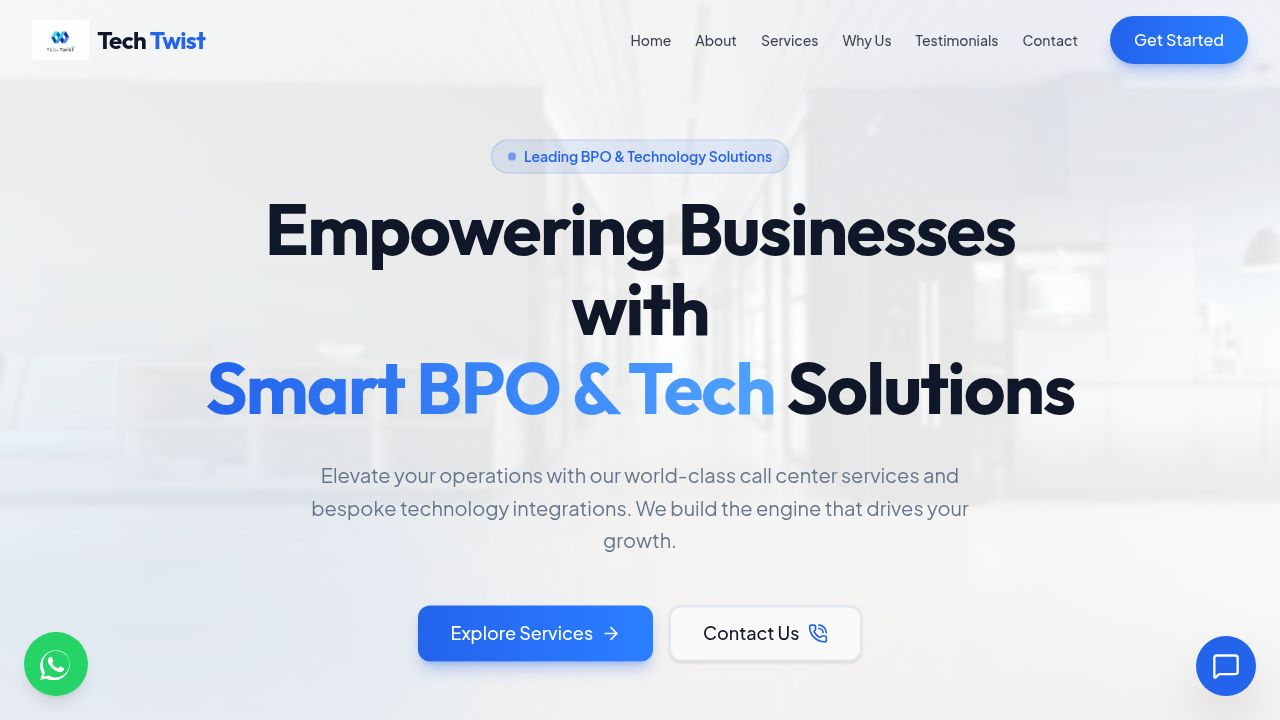
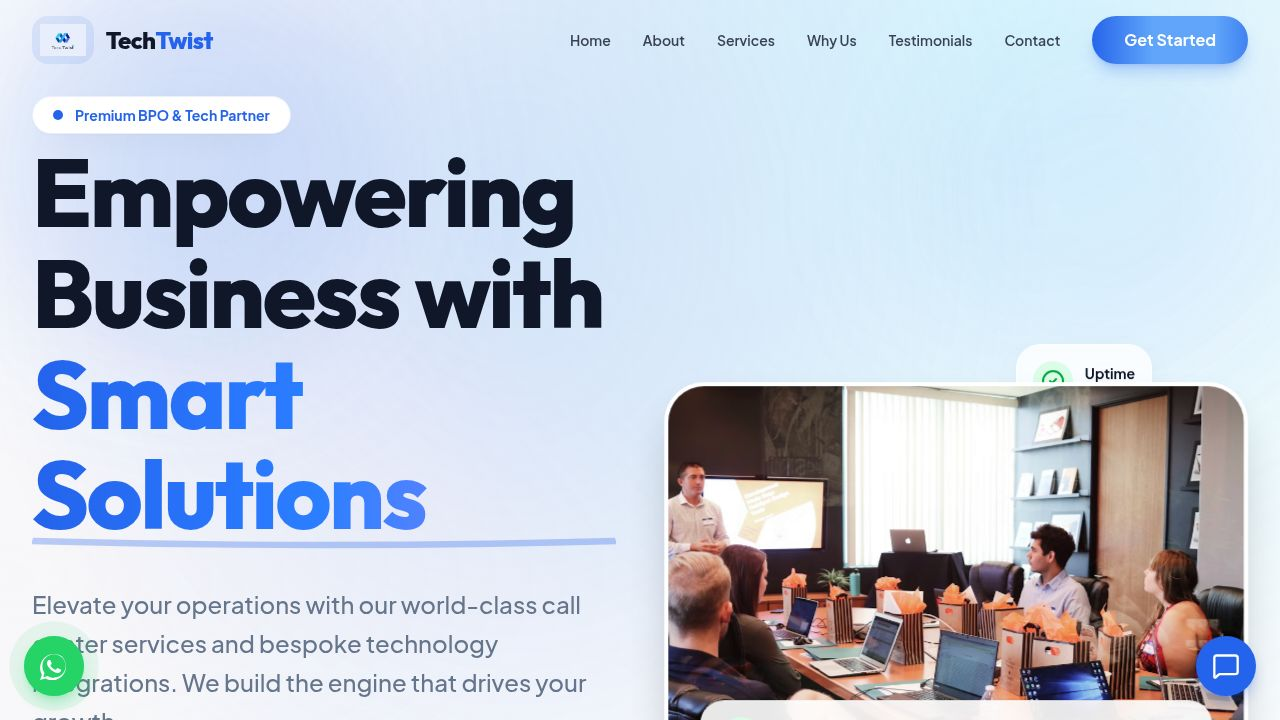
Add attractive and modern images to enhance the website's visual appeal
Integrate high-quality, royalty-free images from Unsplash across various sections, including Hero, About, Services, Testimonials, and Contact, to improve the website's aesthetic and professional presentation.

Replit-Commit-Author: Agent
Replit-Commit-Session-Id: a98e836a-7b45-4a6f-8c2e-8d22522812c9
Replit-Commit-Checkpoint-Type: full_checkpoint
Replit-Commit-Event-Id: 21f09a87-04d3-4b87-b2f1-b5860b8e7d07
Replit-Commit-Screenshot-Url: https://storage.googleapis.com/screenshot-production-us-central1/b10f4f53-28a6-49d7-90fb-6a129ad73a52/a98e836a-7b45-4a6f-8c2e-8d22522812c9/GNSqizr
Replit-Helium-Checkpoint-Created: true

diff --git a/artifacts/tech-twist/src/components/sections/WhyChooseUsSection.tsx b/artifacts/tech-twist/src/components/sections/WhyChooseUsSection.tsx
@@ -13,7 +13,7 @@ export function WhyChooseUsSection() {
   return (
     <section id="why-us" className="py-32 bg-white relative">
       <div className="max-w-7xl mx-auto px-4 sm:px-6 lg:px-8">
-        <div className="grid lg:grid-cols-2 gap-16 items-center">
+        <div className="grid lg:grid-cols-2 gap-16 items-center mb-16">
           
           <motion.div 
             initial={{ opacity: 0, x: -30 }}
@@ -49,22 +49,40 @@ export function WhyChooseUsSection() {
             whileInView={{ opacity: 1, x: 0 }}
             viewport={{ once: true }}
             transition={{ duration: 0.6 }}
-            className="grid sm:grid-cols-2 gap-6"
+            className="relative h-full min-h-[400px]"
           >
-            {features.map((feature, idx) => (
-              <Card key={idx} className={`border-border/50 shadow-sm hover:shadow-xl hover:-translate-y-1 transition-all duration-300 rounded-3xl ${idx % 2 !== 0 ? 'sm:mt-12' : ''}`}>
-                <CardContent className="p-8">
-                  <div className="w-14 h-14 rounded-2xl bg-gradient-to-br from-primary to-indigo-500 text-white flex items-center justify-center mb-6 shadow-lg shadow-primary/20">
-                    <feature.icon size={26} strokeWidth={2} />
-                  </div>
-                  <h4 className="text-xl font-bold mb-3">{feature.title}</h4>
-                  <p className="text-muted-foreground font-medium text-sm leading-relaxed">{feature.desc}</p>
-                </CardContent>
-              </Card>
-            ))}
+            <div className="absolute inset-0 rounded-[2.5rem] overflow-hidden shadow-2xl border-4 border-white z-10">
+              <img 
+                src="https://images.unsplash.com/photo-1522071820081-009f0129c71c?q=80&w=1200&auto=format&fit=crop" 
+                alt="Happy Team" 
+                className="w-full h-full object-cover"
+                loading="lazy"
+              />
+              <div className="absolute inset-0 bg-gradient-to-t from-black/40 to-transparent"></div>
+            </div>
           </motion.div>
 
         </div>
+
+        <motion.div 
+          initial={{ opacity: 0, y: 30 }}
+          whileInView={{ opacity: 1, y: 0 }}
+          viewport={{ once: true }}
+          transition={{ duration: 0.6, delay: 0.2 }}
+          className="grid sm:grid-cols-2 lg:grid-cols-4 gap-6"
+        >
+          {features.map((feature, idx) => (
+            <Card key={idx} className="border-border/50 shadow-sm hover:shadow-xl hover:-translate-y-1 transition-all duration-300 rounded-3xl">
+              <CardContent className="p-8">
+                <div className="w-14 h-14 rounded-2xl bg-gradient-to-br from-primary to-indigo-500 text-white flex items-center justify-center mb-6 shadow-lg shadow-primary/20">
+                  <feature.icon size={26} strokeWidth={2} />
+                </div>
+                <h4 className="text-xl font-bold mb-3">{feature.title}</h4>
+                <p className="text-muted-foreground font-medium text-sm leading-relaxed">{feature.desc}</p>
+              </CardContent>
+            </Card>
+          ))}
+        </motion.div>
       </div>
     </section>
   );

diff --git a/artifacts/tech-twist/src/components/sections/ServicesSection.tsx b/artifacts/tech-twist/src/components/sections/ServicesSection.tsx
@@ -7,22 +7,22 @@ const services = [
   {
     category: "Call Center",
     items: [
-      { icon: Headset, title: "Inbound Support", desc: "24/7 customer support, query resolution, and technical helpdesk services ensuring high customer satisfaction." },
-      { icon: PhoneOutgoing, title: "Outbound Sales", desc: "Lead generation, telemarketing, and survey campaigns driven by targeted strategies." }
+      { icon: Headset, title: "Inbound Support", desc: "24/7 customer support, query resolution, and technical helpdesk services ensuring high customer satisfaction.", image: "https://images.unsplash.com/photo-1553877522-43269d4ea984?q=80&w=600&auto=format&fit=crop" },
+      { icon: PhoneOutgoing, title: "Outbound Sales", desc: "Lead generation, telemarketing, and survey campaigns driven by targeted strategies.", image: "https://images.unsplash.com/photo-1573164713988-8665fc963095?q=80&w=600&auto=format&fit=crop" }
     ]
   },
   {
     category: "Business Ops",
     items: [
-      { icon: Truck, title: "Tax & Dispatch", desc: "Logistics coordination, route optimization, and reliable dispatch management." },
-      { icon: ClipboardList, title: "Order Taking", desc: "Seamless handling of reservations, appointments, and e-commerce order processing." }
+      { icon: Truck, title: "Tax & Dispatch", desc: "Logistics coordination, route optimization, and reliable dispatch management.", image: "https://images.unsplash.com/photo-1586528116311-ad8ed7c83a7f?q=80&w=600&auto=format&fit=crop" },
+      { icon: ClipboardList, title: "Order Taking", desc: "Seamless handling of reservations, appointments, and e-commerce order processing.", image: "https://images.unsplash.com/photo-1556742049-0cfed4f6a45d?q=80&w=600&auto=format&fit=crop" }
     ]
   },
   {
     category: "Technology",
     items: [
-      { icon: MonitorSmartphone, title: "POS Solutions", desc: "Custom Point of Sale systems for Grocery, Restaurant, and Pharmacy businesses." },
-      { icon: Cpu, title: "Hardware Integration", desc: "Manufacturing development, barcode solutions, and secure biometric attendance systems." }
+      { icon: MonitorSmartphone, title: "POS Solutions", desc: "Custom Point of Sale systems for Grocery, Restaurant, and Pharmacy businesses.", image: "https://images.unsplash.com/photo-1556740749-887f6717d7e4?q=80&w=600&auto=format&fit=crop" },
+      { icon: Cpu, title: "Hardware Integration", desc: "Manufacturing development, barcode solutions, and secure biometric attendance systems.", image: "https://images.unsplash.com/photo-1518770660439-4636190af475?q=80&w=600&auto=format&fit=crop" }
     ]
   }
 ];
@@ -56,25 +56,36 @@ export function ServicesSection() {
                 viewport={{ once: true, margin: "-50px" }}
                 transition={{ duration: 0.5, delay: idx * 0.1 }}
               >
-                <Card className="h-full border border-border/50 shadow-sm hover-lift bg-white relative overflow-hidden group rounded-3xl">
+                <Card className="h-full border border-border/50 shadow-sm hover-lift bg-white relative overflow-hidden group rounded-3xl flex flex-col">
                   {/* Top gradient line on hover */}
-                  <div className="absolute top-0 left-0 w-full h-1.5 bg-gradient-to-r from-primary to-indigo-400 transform -translate-y-full group-hover:translate-y-0 transition-transform duration-300"></div>
+                  <div className="absolute top-0 left-0 w-full h-1.5 bg-gradient-to-r from-primary to-indigo-400 transform -translate-y-full group-hover:translate-y-0 transition-transform duration-300 z-20"></div>
                   
-                  <CardContent className="p-8">
+                  {/* Inline Image */}
+                  <div className="w-full h-48 relative overflow-hidden">
+                    <div className="absolute inset-0 bg-primary/10 mix-blend-overlay z-10 group-hover:bg-transparent transition-colors duration-500"></div>
+                    <img 
+                      src={srv.image} 
+                      alt={srv.title}
+                      className="w-full h-full object-cover group-hover:scale-110 transition-transform duration-700"
+                      loading="lazy"
+                    />
+                  </div>
+                  
+                  <CardContent className="p-8 flex-1 flex flex-col">
                     {/* Badge */}
-                    <div className="mb-8">
-                      <span className="inline-flex items-center px-3 py-1 rounded-full text-xs font-bold bg-secondary text-secondary-foreground">
+                    <div className="mb-6 -mt-12 relative z-20">
+                      <span className="inline-flex items-center px-4 py-1.5 rounded-full text-xs font-bold bg-white text-primary shadow-md border border-gray-100">
                         {category.category}
                       </span>
                     </div>
                     
-                    <div className="flex items-start gap-5">
-                      <div className="p-4 bg-primary/5 rounded-2xl text-primary group-hover:bg-primary group-hover:text-white transition-colors duration-300">
-                        <srv.icon size={32} strokeWidth={1.5} />
+                    <div className="flex items-start gap-4">
+                      <div className="p-3 bg-primary/5 rounded-2xl text-primary group-hover:bg-primary group-hover:text-white transition-colors duration-300">
+                        <srv.icon size={28} strokeWidth={1.5} />
                       </div>
-                      <div className="space-y-3">
+                      <div className="space-y-3 pt-1">
                         <h4 className="text-2xl font-bold text-foreground">{srv.title}</h4>
-                        <p className="text-muted-foreground font-medium leading-relaxed">
+                        <p className="text-muted-foreground font-medium leading-relaxed text-sm">
                           {srv.desc}
                         </p>
                       </div>

diff --git a/artifacts/tech-twist/src/components/sections/HeroSection.tsx b/artifacts/tech-twist/src/components/sections/HeroSection.tsx
@@ -16,12 +16,13 @@ export function HeroSection() {
         <div className="absolute -bottom-8 left-20 w-96 h-96 bg-blue-400/20 rounded-full mix-blend-multiply filter blur-3xl opacity-70 animate-blob animation-delay-4000"></div>
       </div>
 
-      <div className="relative z-10 max-w-7xl mx-auto px-4 sm:px-6 lg:px-8 text-center">
+      <div className="relative z-10 max-w-7xl mx-auto px-4 sm:px-6 lg:px-8">
+        <div className="grid lg:grid-cols-2 gap-12 items-center">
         <motion.div
           initial={{ opacity: 0, y: 40 }}
           animate={{ opacity: 1, y: 0 }}
           transition={{ duration: 0.8, ease: [0.16, 1, 0.3, 1] }}
-          className="space-y-10 max-w-5xl mx-auto"
+          className="space-y-10"
         >
           <motion.div 
             initial={{ opacity: 0, scale: 0.9 }}
@@ -80,14 +81,14 @@ export function HeroSection() {
             transition={{ delay: 0.8, duration: 1 }}
             className="pt-16 pb-4"
           >
-            <div className="grid grid-cols-2 md:grid-cols-4 gap-8 md:gap-4 max-w-4xl mx-auto border-t border-border/50 pt-8">
+            <div className="grid grid-cols-2 md:grid-cols-4 gap-8 md:gap-4 max-w-4xl border-t border-border/50 pt-8">
               {[
                 { label: "Active Clients", value: "500+" },
                 { label: "Years Experience", value: "10+" },
                 { label: "Satisfaction", value: "99%" },
                 { label: "Support", value: "24/7" }
               ].map((stat, i) => (
-                <div key={i} className="flex flex-col items-center">
+                <div key={i} className="flex flex-col items-start sm:items-center">
                   <div className="text-3xl md:text-4xl font-extrabold text-foreground mb-1">{stat.value}</div>
                   <div className="text-sm font-semibold text-muted-foreground uppercase tracking-wider">{stat.label}</div>
                 </div>
@@ -95,6 +96,38 @@ export function HeroSection() {
             </div>
           </motion.div>
         </motion.div>
+
+        {/* Right side image */}
+        <motion.div
+          initial={{ opacity: 0, scale: 0.9, x: 20 }}
+          animate={{ opacity: 1, scale: 1, x: 0 }}
+          transition={{ duration: 0.8, delay: 0.2, ease: [0.16, 1, 0.3, 1] }}
+          className="relative hidden lg:block mt-10 lg:mt-0"
+        >
+          <div className="relative rounded-[2.5rem] overflow-hidden shadow-2xl aspect-[4/3] group border-4 border-white">
+            <div className="absolute inset-0 bg-gradient-to-tr from-primary/20 to-transparent mix-blend-overlay z-10 group-hover:bg-transparent transition-colors duration-500"></div>
+            <img 
+              src="https://images.unsplash.com/photo-1542744173-8e7e53415bb0?q=80&w=1200&auto=format&fit=crop" 
+              alt="Modern Call Center" 
+              className="w-full h-full object-cover group-hover:scale-105 transition-transform duration-700"
+              loading="lazy"
+            />
+            {/* Floating badge */}
+            <div className="absolute bottom-8 left-8 right-8 bg-white/90 backdrop-blur-md p-4 rounded-2xl shadow-xl z-20 animate-float border border-white/50">
+              <div className="flex items-center gap-4">
+                <div className="bg-green-100 p-3 rounded-full text-green-600">
+                  <svg className="w-6 h-6" fill="none" stroke="currentColor" viewBox="0 0 24 24"><path strokeLinecap="round" strokeLinejoin="round" strokeWidth="2" d="M13 7h8m0 0v8m0-8l-8 8-4-4-6 6"></path></svg>
+                </div>
+                <div>
+                  <div className="font-bold text-gray-900">Performance Driven</div>
+                  <div className="text-sm text-gray-600">Accelerating business growth</div>
+                </div>
+              </div>
+            </div>
+          </div>
+        </motion.div>
+
+        </div>
       </div>
 
       {/* Floating Elements Animation */}

diff --git a/artifacts/tech-twist/src/components/sections/TestimonialsSection.tsx b/artifacts/tech-twist/src/components/sections/TestimonialsSection.tsx
@@ -8,21 +8,24 @@ const testimonials = [
     role: "Operations Director, RetailFast",
     text: "Tech Twist transformed our customer support. Their inbound team reduced our wait times by 60%, and the integration with our systems was flawless.",
     rating: 5,
-    initials: "SJ"
+    initials: "SJ",
+    image: "https://images.unsplash.com/photo-1573496359142-b8d87734a5a2?q=80&w=200&auto=format&fit=crop"
   },
   {
     name: "David Chen",
     role: "Owner, Spice Route Restaurant",
     text: "The custom POS solution they built for us completely revolutionized how we handle orders. Incredibly intuitive and reliable hardware.",
     rating: 5,
-    initials: "DC"
+    initials: "DC",
+    image: "https://images.unsplash.com/photo-1560250097-0b93528c311a?q=80&w=200&auto=format&fit=crop"
   },
   {
     name: "Marcus Thorne",
     role: "CEO, LogicLogistics",
     text: "Relying on Tech Twist for our dispatch services was the best decision we made this year. Professional, accurate, and always available.",
     rating: 5,
-    initials: "MT"
+    initials: "MT",
+    image: "https://images.unsplash.com/photo-1519085360753-af0119f7cbe7?q=80&w=200&auto=format&fit=crop"
   }
 ];
 
@@ -65,10 +68,16 @@ export function TestimonialsSection() {
                     ))}
                   </div>
                   <p className="text-xl leading-relaxed mb-10 flex-1 font-medium text-slate-300">"{test.text}"</p>
-                  <div className="flex items-center gap-4">
-                    <div className="w-14 h-14 rounded-full bg-gradient-to-br from-primary to-indigo-500 flex items-center justify-center text-lg font-bold shadow-lg">
-                      {test.initials}
-                    </div>
+                  <div className="flex items-center gap-4 mt-auto">
+                    {test.image ? (
+                      <div className="w-14 h-14 rounded-full overflow-hidden border-2 border-primary shadow-lg">
+                        <img src={test.image} alt={test.name} className="w-full h-full object-cover" loading="lazy" />
+                      </div>
+                    ) : (
+                      <div className="w-14 h-14 rounded-full bg-gradient-to-br from-primary to-indigo-500 flex items-center justify-center text-lg font-bold shadow-lg">
+                        {test.initials}
+                      </div>
+                    )}
                     <div>
                       <p className="font-bold text-xl">{test.name}</p>
                       <p className="text-primary font-medium">{test.role}</p>

diff --git a/artifacts/tech-twist/src/components/sections/AboutSection.tsx b/artifacts/tech-twist/src/components/sections/AboutSection.tsx
@@ -40,12 +40,13 @@ export function AboutSection() {
             transition={{ duration: 0.7 }}
             className="relative order-2 lg:order-1"
           >
-            <div className="relative rounded-[2.5rem] overflow-hidden shadow-2xl aspect-[4/5] md:aspect-square lg:aspect-[4/5]">
+            <div className="relative rounded-[2.5rem] overflow-hidden shadow-2xl aspect-[4/5] md:aspect-[4/5] lg:aspect-[4/5]">
               <div className="absolute inset-0 bg-primary/20 mix-blend-overlay z-10"></div>
               <img 
                 src="https://images.unsplash.com/photo-1600880292203-757bb62b4baf?q=80&w=2070&auto=format&fit=crop" 
                 alt="Tech Twist Modern Office" 
                 className="w-full h-full object-cover"
+                loading="lazy"
               />
               {/* Overlay gradient */}
               <div className="absolute inset-0 bg-gradient-to-t from-black/60 via-transparent to-transparent z-10"></div>
@@ -58,8 +59,18 @@ export function AboutSection() {
               </div>
             </div>
             
+            {/* Overlapping smaller image */}
+            <div className="absolute -bottom-10 -right-10 hidden md:block w-64 h-64 rounded-3xl overflow-hidden shadow-2xl border-4 border-white z-30 animate-float" style={{ animationDelay: '1s' }}>
+              <img 
+                src="https://images.unsplash.com/photo-1522071820081-009f0129c71c?q=80&w=800&auto=format&fit=crop" 
+                alt="Team Collaboration" 
+                className="w-full h-full object-cover"
+                loading="lazy"
+              />
+            </div>
+            
             {/* Floating accent card */}
-            <div className="absolute -top-8 -right-8 hidden md:block bg-white p-6 rounded-3xl shadow-elegant border border-white/40 z-30 animate-float">
+            <div className="absolute -top-8 -left-8 hidden md:block bg-white p-6 rounded-3xl shadow-elegant border border-white/40 z-30 animate-float">
               <div className="flex items-center gap-4">
                 <div className="p-4 bg-gradient-to-br from-primary to-blue-400 text-white rounded-2xl shadow-lg">
                   <TrendingUp size={28} />

diff --git a/artifacts/tech-twist/src/components/sections/ContactSection.tsx b/artifacts/tech-twist/src/components/sections/ContactSection.tsx
@@ -48,8 +48,16 @@ export function ContactSection() {
 
   return (
     <section id="contact" className="py-32 bg-secondary/10 relative overflow-hidden">
-      {/* Subtle background decoration */}
-      <div className="absolute top-0 right-0 w-1/2 h-full bg-gradient-to-b from-white to-transparent transform -skew-x-12 translate-x-1/4"></div>
+      {/* Background Image with Overlay */}
+      <div className="absolute inset-0 z-0">
+        <img 
+          src="https://images.unsplash.com/photo-1556761175-5973dc0f32b7?q=80&w=2000&auto=format&fit=crop" 
+          alt="Contact Support Team" 
+          className="w-full h-full object-cover opacity-10"
+          loading="lazy"
+        />
+        <div className="absolute inset-0 bg-gradient-to-b from-background/90 via-background/95 to-background z-10"></div>
+      </div>
 
       <div className="max-w-7xl mx-auto px-4 sm:px-6 lg:px-8 relative z-10">
         <div className="text-center max-w-3xl mx-auto mb-20 space-y-6">